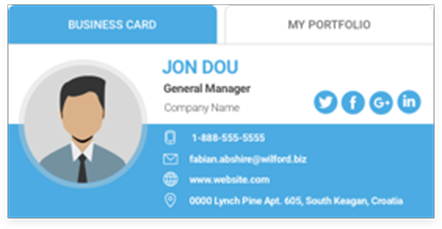
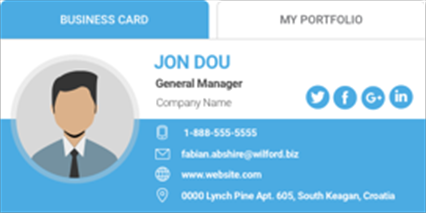
SGTRR-1050 Landing: 6th block change size of blocks: done

diff --git a/src/main/webapp/app/home/home.html b/src/main/webapp/app/home/home.html
@@ -306,7 +306,7 @@
                                     <div class="how-it-works-description-3 marin-top-0">Creative Director, Co-Founder</div>
                                 </div>
                                 <div class="overlay2">
-                                    <div><img style="width: 100%;" src="/content/images/landing/business-card_small.png"></div>
+                                    <div><img style="width: 100%;" src="/content/images/landing/business-card_01.png"></div>
                                     <div style="height: 50px">
                                         <div class="director-job">KATHIE EVANS</div>
                                         <div class="how-it-works-description-3 marin-top-0">Creative Director, Co-Founder</div>
@@ -322,7 +322,7 @@
                                     <div class="how-it-works-description-3 marin-top-0">Photographer</div>
                                 </div>
                                 <div class="overlay">
-                                    <div><img style="width: 100%;" src="/content/images/landing/business-card_small.png"></div>
+                                    <div><img style="width: 100%;" src="/content/images/landing/business-card_01.png"></div>
                                     <div style="height: 50px">Statistics that Benefit you
                                         <div class="director-job">MARTIN LITZEN</div>
                                         <div class="how-it-works-description-3 marin-top-0">Photographer</div>
@@ -341,7 +341,7 @@
                                     <div class="how-it-works-description-3 marin-top-0">Art Director in Mediumv</div>
                                 </div>
                                 <div class="overlay2">
-                                    <div><img style="width: 100%;" src="/content/images/landing/business-card_small.png"></div>
+                                    <div><img style="width: 100%;" src="/content/images/landing/business-card_01.png"></div>
                                     <div style="height: 50px">
                                         <div class="director-job">COREY MICHAELS</div>
                                         <div class="how-it-works-description-3 marin-top-0">Art Director in Mediumv</div>
@@ -358,7 +358,7 @@
                                     <div class="how-it-works-description-3 marin-top-0">UI/UX Designer</div>
                                 </div>
                                 <div class="overlay">
-                                    <div><img style="width: 100%;" src="/content/images/landing/business-card_small.png"></div>
+                                    <div><img style="width: 100%;" src="/content/images/landing/business-card_01.png"></div>
                                     <div style="height: 50px">
                                         <div class="director-job">JULIA PETROVA</div>
                                         <div class="how-it-works-description-3 marin-top-0">UI/UX Designer</div>
